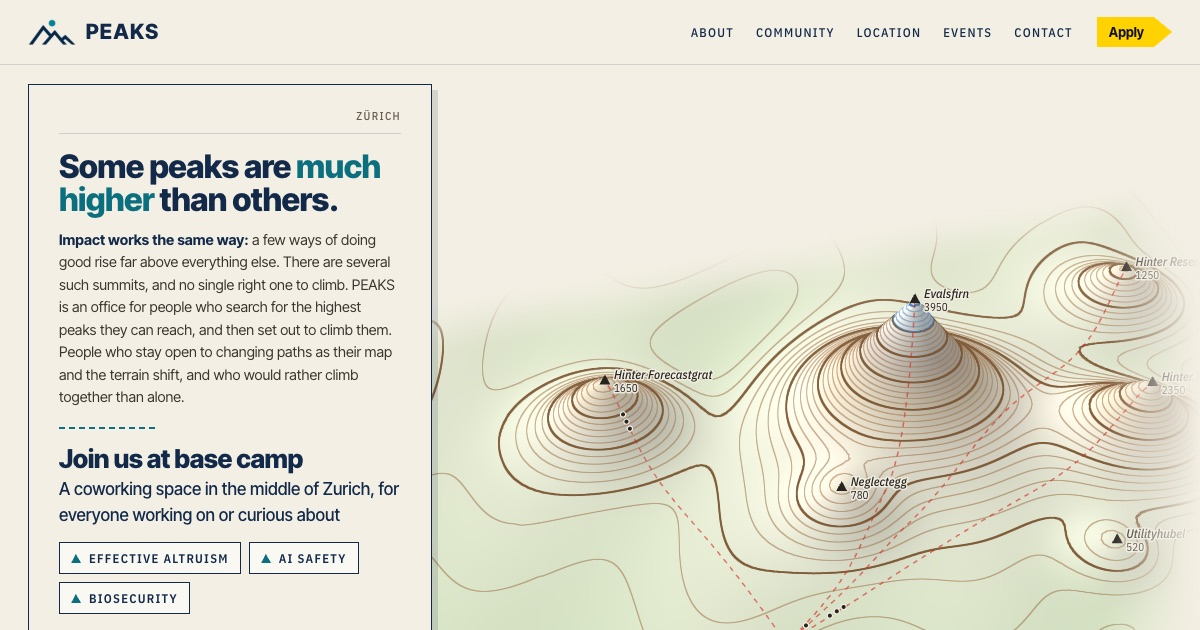
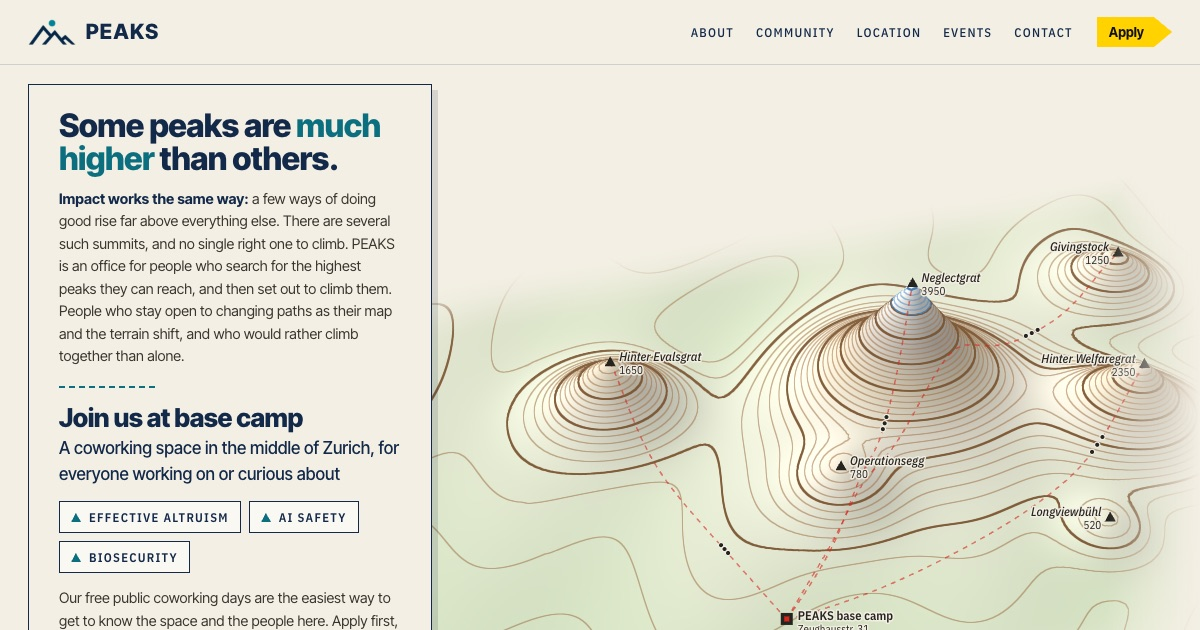
Remove the ZÜRICH label from the hero card, link the EACH privacy policy in the footer
The link preview image is rendered again without the label.

diff --git a/index.html b/index.html
@@ -90,8 +90,6 @@
         .hero { display: grid; grid-template-columns: clamp(420px, 36vw, 560px) minmax(0, 1fr); max-width: 1480px; margin: 0 auto; padding-top: 64px; }
         .hero-card { position: relative; z-index: 2; margin: 20px 0 20px 28px; padding: 24px 30px 26px; display: flex; flex-direction: column; justify-content: flex-start;
             background: rgba(243, 239, 228, .97); border: 1.5px solid var(--navy); box-shadow: 6px 6px 0 rgba(18, 41, 74, .14); }
-        .sheet { display: flex; justify-content: flex-end; font: 500 11px var(--cond); letter-spacing: .12em; text-transform: uppercase;
-            color: var(--muted); border-bottom: 1px solid var(--line); padding-bottom: 10px; margin-bottom: 16px; }
         .hero-card h1 { font-weight: 800; font-size: clamp(30px, 2.7vw, 40px); line-height: 1.03; letter-spacing: -.02em; color: var(--navy); margin-bottom: 12px; }
         .hero-card h1 em { font-style: normal; color: var(--teal); }
         .hero-card p { color: var(--text); font-size: 14.5px; line-height: 1.55; }
@@ -199,6 +197,8 @@
         .footer-links a { font: 500 12.5px var(--cond); letter-spacing: .1em; text-transform: uppercase; color: var(--navy); text-decoration: none; }
         .footer-links a:hover { color: var(--teal); }
         footer p { font-size: 13px; color: var(--muted); }
+        footer p a { color: inherit; text-decoration-color: var(--teal); text-underline-offset: 3px; }
+        footer p a:hover { color: var(--teal); }
 
         /* Fade-in on scroll */
         .reveal { opacity: 0; transform: translateY(18px); transition: opacity .7s ease, transform .7s ease; }
@@ -243,7 +243,7 @@
             /* footer links get a tap area of about 44 px, big enough for a finger */
             footer { padding: 24px 0; }
             .footer-links { gap: 0 22px; }
-            .footer-links a { padding: 12px 0; line-height: 20px; }
+            .footer-links a, footer p a { display: inline-block; padding: 12px 0; line-height: 20px; }
         }
     </style>
 </head>
@@ -270,7 +270,6 @@
 
     <section id="home" class="hero">
         <div class="hero-card">
-            <div class="sheet"><span>Zürich</span></div>
             <h1>Some peaks are <em>much higher</em> than others.</h1>
             <p><strong>Impact works the same way:</strong> a few ways of doing good rise far above everything else. There are several such summits, and no single right one to climb. PEAKS is an office for people who search for the highest peaks they can reach, and then set out to climb them. People who stay open to changing paths as their map and the terrain shift, and who would rather climb together than alone.</p>
             <hr class="divider">
@@ -457,7 +456,7 @@
                 <a href="https://zurich.aisafety.ch/" target="_blank" rel="noopener">Zurich AI Safety</a>
                 <a href="https://zurichbiosecurity.ch/" target="_blank" rel="noopener">Zurich Biosecurity Hub</a>
             </div>
-            <p>&copy; 2026 PEAKS Zurich</p>
+            <p>&copy; 2026 PEAKS Zurich · <a href="https://docs.google.com/document/d/1346yei4qlB5DO9ovYDOcFJdoWDvRAyc7VIySa7jWvXI/edit?tab=t.yem2ky9f19v7" target="_blank" rel="noopener">Privacy policy</a></p>
         </div>
     </footer>
 
